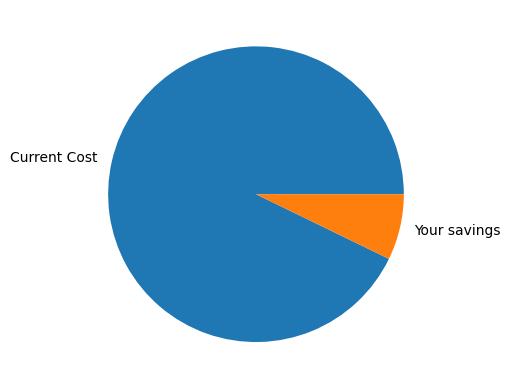
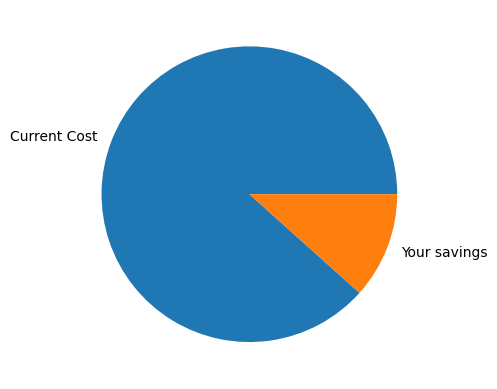
final updates

diff --git a/main.py b/main.py
@@ -13,14 +13,11 @@ matplotlib.use('Agg')
 
 rf = joblib.load('IndiVolt/rfmodel.joblib')
 def generate_pie_chart(data, labels):
-    
 
     fig, ax = plt.subplots()
     ax.pie(data, labels=labels)
 
-    # Set the matplotlib backend to 'Agg' to enable saving figures in Flask
     
-    # Save the figure to a bytes buffer
     chart_path = os.path.join(app.static_folder, 'pie.png')
     plt.savefig(chart_path, format='png', bbox_inches='tight')
     return chart_path
@@ -52,14 +49,12 @@ def submit():
     #make pred global
     
     i = random.uniform(0.5, 1.5)
-    print(i)
     rencost  = np.round(pred - (12*i/100)*pred)
     profit = np.round(int(pred) - rencost)
     percent = np.round((profit/int(pred))*100)
     data = [pred, profit]
     labels = ['Current Cost', 'Your savings']
     chart_data = generate_pie_chart(data, labels)
-    print(chart_data)
     return render_template('dashboard.html', currcost = pred, rencost = rencost, profit = profit, percent = percent)
 @app.route('/output', methods = ['GET', 'POST'])
 def output():
